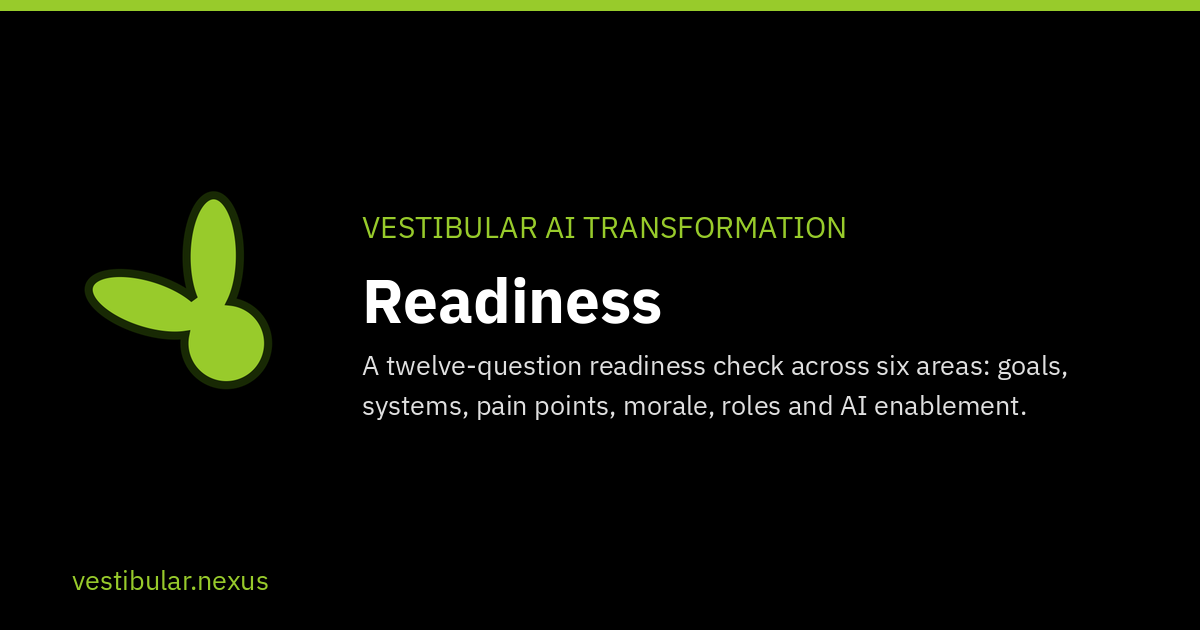
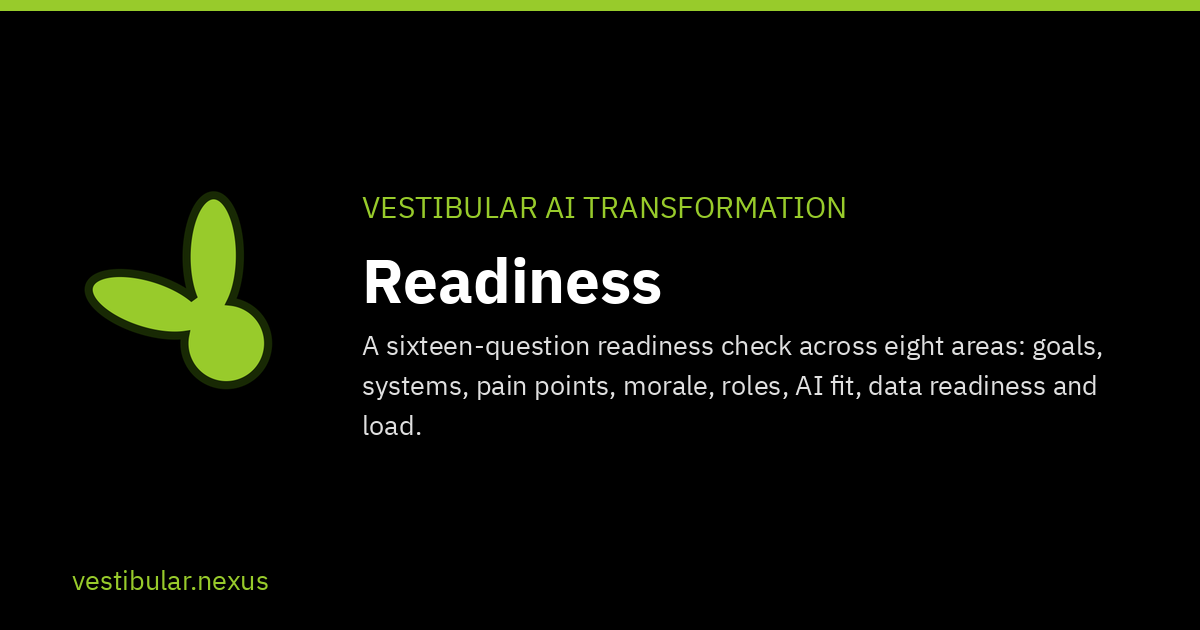
fix(og): guard the share cards, and re-render the stale readiness card
`assets/og/ai-readiness.png` has been live advertising "A twelve-question
readiness check across six areas" for the whole life of a sixteen-question,
eight-area instrument. The description moved in content/pages.json, the page
and its meta tags followed via render_content.mjs, and nobody re-ran
build_og_images.py. Every check in CI was green throughout.

Nothing could have caught it. The cards were the one artifact in this pipeline
with no guard, deliberately: build_og_images.py's docstring argued that PNG
encoding is not byte-stable across Pillow and libpng versions, so re-rendering
in CI would go red on a dependency upgrade rather than on a real problem. That
reasoning is sound and is kept. Re-rendering is also disproportionate — it
needs Python, Pillow, libcairo and the IBM Plex fonts in a Node-only CI, and
the fonts are not in the repo.

So the guard compares provenance instead of pixels. build_og_images.py now
emits assets/og/manifest.json recording the pages.json strings each card was
rendered FROM plus the PNG's sha256, and tools/test_og_cards.cjs asserts three
things: the manifest's strings still equal pages.json's, every page has a card
and every card has a page, and every PNG still hashes to what the manifest
claims. The third is what makes the first two mean anything — it closes the
route where the manifest is quietly hand-corrected to match pages.json, because
the only way to satisfy both is to run the generator, which re-renders the PNG.
[…]

Changed region(s): [[0.3083, 0.5429, 0.925, 0.6937], [0.2775, 0.3016, 0.7092, 0.5127]]

diff --git a/tools/build_og_images.py b/tools/build_og_images.py
@@ -11,10 +11,26 @@ Why generated rather than hand-made in a design tool: there are nine pages and
 there will be more. A hand-made set goes stale the first time a title changes,
 silently, because nobody re-exports a PNG when they edit a heading.
 
-Why NOT wired into the --check drift guard: PNG encoding is not byte-stable
-across Pillow and libpng versions, so a regenerated file can differ without any
-content change. CI would fail on an upgrade rather than on a real problem. Run
-this by hand when a title changes; the cards are committed artifacts.
+The cards ARE guarded, but not by re-rendering them. PNG encoding is not
+byte-stable across Pillow and libpng versions, so a regenerated file can differ
+with no content change, and CI would fail on an upgrade rather than on a real
+problem. Re-rendering in CI is also disproportionate: it needs Python, Pillow,
+a libcairo build and the IBM Plex fonts, none of which this Node-only pipeline
+otherwise carries, and the fonts are not in the repo.
+
+So this script emits assets/og/manifest.json recording the exact title and
+description each card was rendered FROM, plus the file's sha256, and
+tools/test_og_cards.cjs asserts in CI that the manifest still matches
+content/pages.json. Changing a title without re-running this script leaves the
+manifest stale and goes red — which is the failure that actually happened:
+ai-readiness.png advertised "twelve-question ... six areas" for the whole life
+of a sixteen-question, eight-area instrument, live, with every other check
+green. Nothing could see it, because this was the one artifact in the pipeline
+with no guard at all.
+
+⚠ The manifest is a GENERATED artifact and must be regenerated by running this
+script, never hand-edited to make CI green. Editing it to match pages.json
+without re-rendering reproduces exactly the drift it exists to catch.
 
 The existing favicons are unsuitable as share images: every one is square
 (ratio 1.0, largest 512x512) against Open Graph's 1.91 target, so platforms
@@ -22,6 +38,7 @@ either pillarbox them with grey bars or centre-crop the logo, and below 1200px
 wide LinkedIn falls back to a small thumbnail card instead of the large one.
 """
 
+import hashlib
 import json
 import os
 import re
@@ -35,6 +52,7 @@ ROOT = Path(__file__).resolve().parent.parent
 PAGES = ROOT / "content" / "pages.json"
 LOGO = ROOT / "assets" / "vestibular_logo.svg"
 OUT_DIR = ROOT / "assets" / "og"
+MANIFEST = OUT_DIR / "manifest.json"
 FONT_DIR = Path(os.environ.get("VN_FONT_DIR", "/tmp"))
 
 W, H = 1200, 630                 # Open Graph large-card canvas
@@ -138,6 +156,8 @@ def main() -> None:
     png = cairosvg.svg2png(bytestring=mark_only.encode(), output_width=420, output_height=420)
     logo = Image.open(__import__("io").BytesIO(png)).convert("RGBA")
 
+    manifest_cards = {}
+
     for page_file, meta in pages.items():
         title, desc = meta["title"], meta["description"]
         # The description is written for search results and runs long. Trim at
@@ -148,9 +168,38 @@ def main() -> None:
         card = build_card(page_file, title, short, logo)
         out = OUT_DIR / f"{Path(page_file).stem}.png"
         card.save(out, "PNG", optimize=True)
+
+        # Record the SOURCE strings, not the trimmed/wrapped ones. The trim is
+        # deterministic from the source, so comparing sources is sufficient —
+        # and it keeps the checker from having to reimplement the trim in
+        # another language, which would be a second copy of the rule.
+        manifest_cards[page_file] = {
+            "title": title,
+            "description": desc,
+            "sha256": hashlib.sha256(out.read_bytes()).hexdigest(),
+        }
         print(f"  {out.relative_to(ROOT)}  {out.stat().st_size:,} B")
 
+    MANIFEST.write_text(
+        json.dumps(
+            {
+                "_comment": (
+                    "GENERATED by tools/build_og_images.py — do not hand-edit. "
+                    "Records the content/pages.json strings each card was rendered "
+                    "from, so tools/test_og_cards.cjs can detect a title that moved "
+                    "without the card being re-rendered."
+                ),
+                "cards": manifest_cards,
+            },
+            indent=2,
+            ensure_ascii=False,
+        )
+        + "\n",
+        encoding="utf-8",
+    )
+
     print(f"\nrendered {len(pages)} card(s) at {W}x{H}")
+    print(f"wrote {MANIFEST.relative_to(ROOT)}")
 
 
 if __name__ == "__main__":
